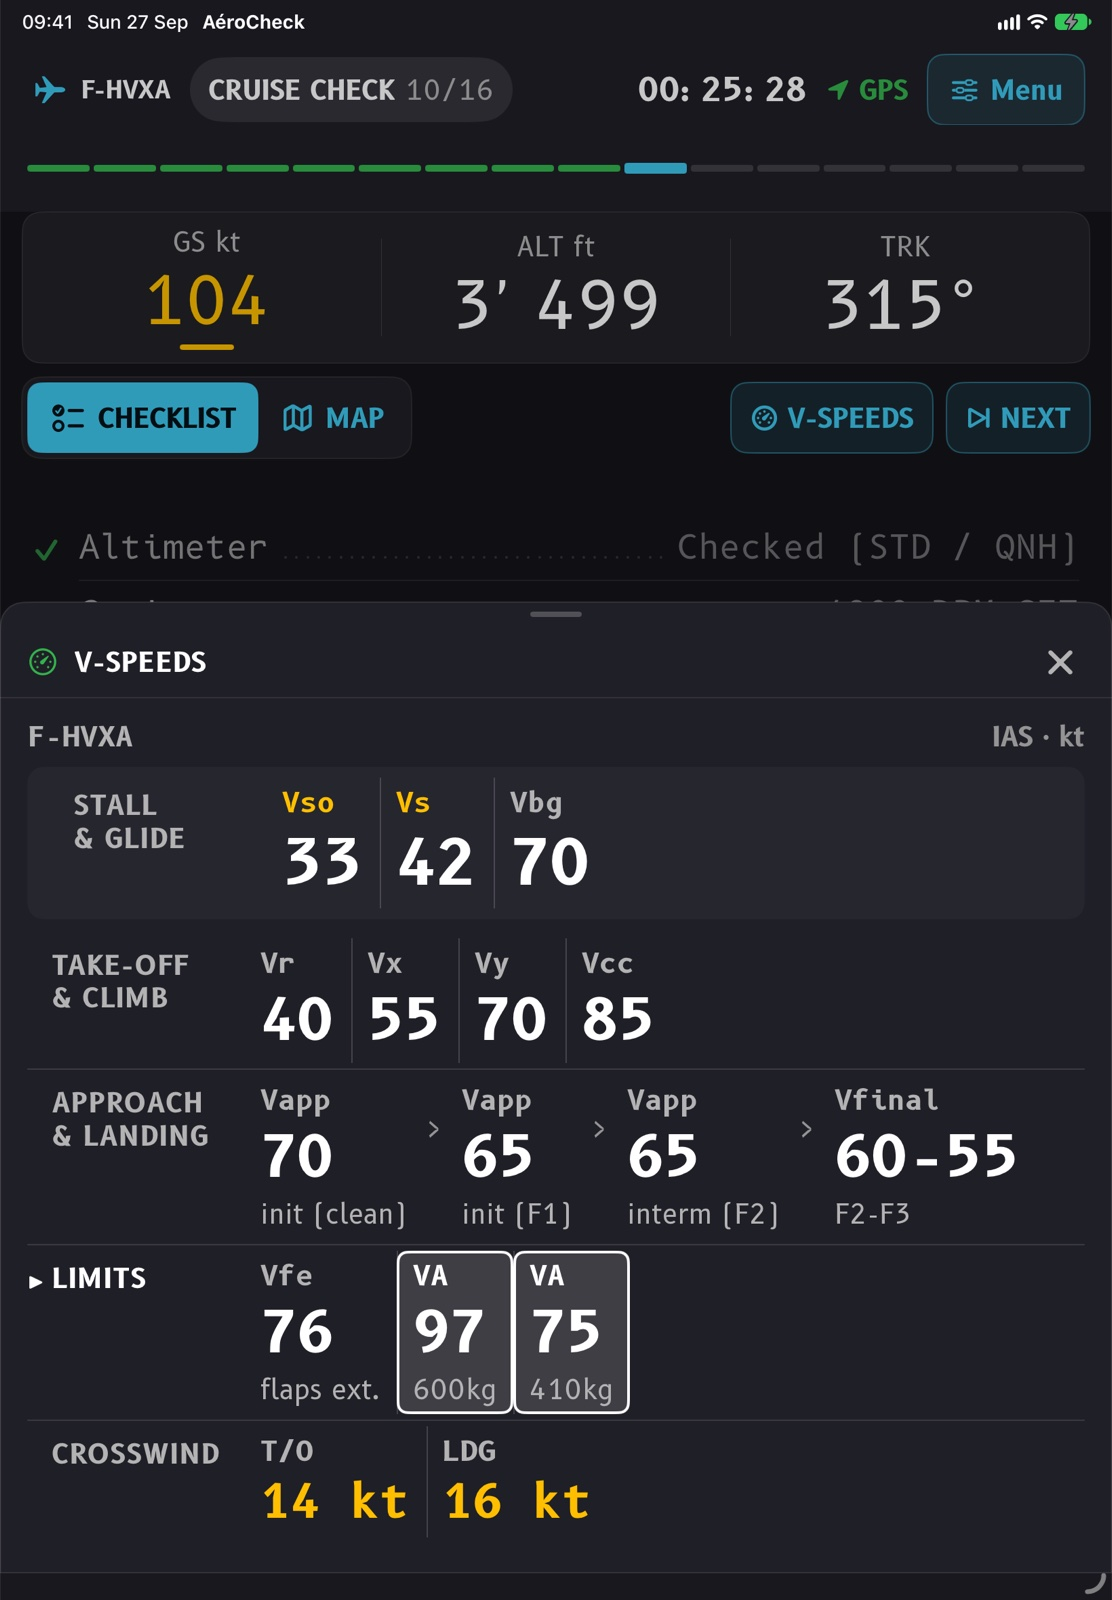
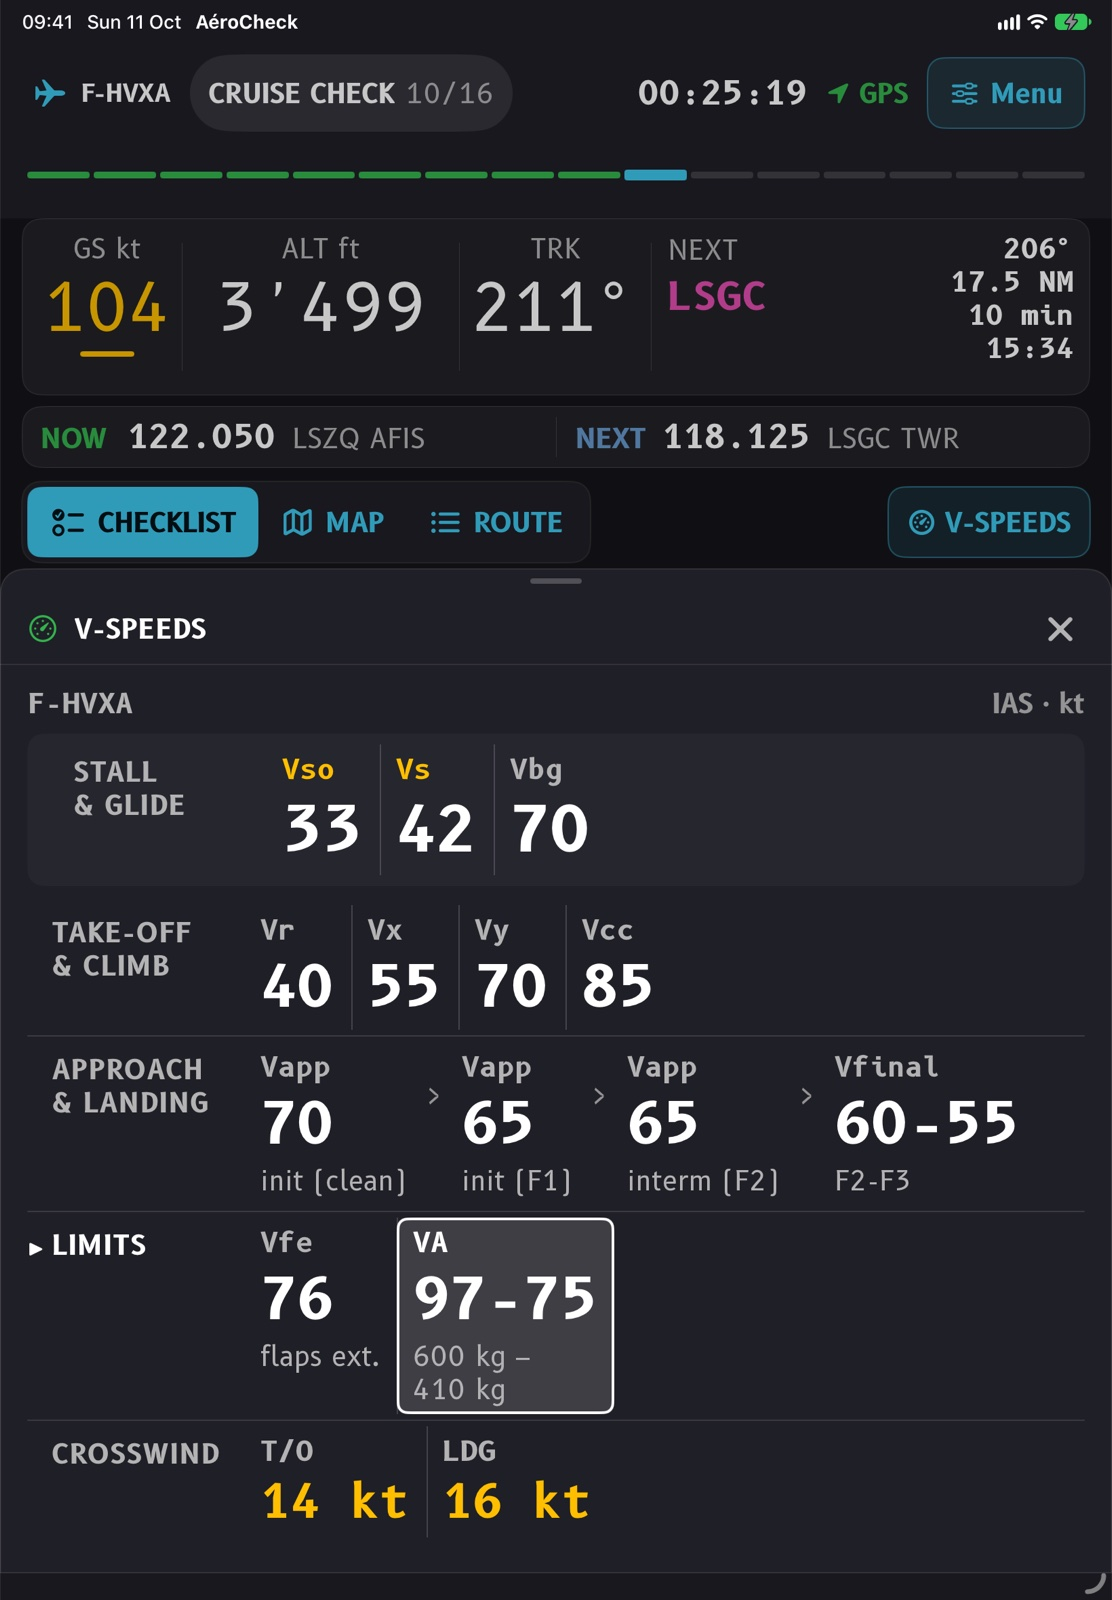
website: the 6.2.0 screenshots, and traffic circuits on the landing
- Every shot recaptured from the 6.2.0 tag (iPad Air 11", iPhone 17): the
  Cockpit's three pages and fixed act band, the iPhone's one-line buttons.
  The 6.0 set showed a thumb bar, a map card and buttons that are gone.
- A fourth FLY row, "Traffic circuits, drawn on the map", with a new
  `circuits` shot (Plan › Map at LSZQ: the circuit at 2900 ft, the W and E
  sectors, runway 07/25), and the same shot in the hero cycle.
- The Cockpit, map and iPhone rows describe the 6.2.0 Cockpit
  (CHECKLIST · MAP · ROUTE, NEXT in the strip, LEGS | RADIO), EN and FR.
- SCREENSHOTS.md: the `circuits` recipe, the `cruiseroute` Cockpit, the
  Flight Restored alert, refreshing the VFR data first.

diff --git a/src/lib/shots.ts b/src/lib/shots.ts
@@ -10,6 +10,8 @@ const both = (key: string, label: string): Shot => ({ ipad: v6('ipad', key), iph
 export const SHOTS: Record<string, Shot> = {
   cockpit:    both('cockpit', 'The Cockpit in cruise'),
   cockpitmap: both('cockpitmap', 'The Cockpit on its map'),
+  // 6.2: Plan › Map close in on LSZQ, its traffic circuit and arrival sectors from open flightmaps.
+  circuits:   both('circuits', 'Traffic circuits on the map'),
   vspeeds:    both('vspeeds', 'V-SPEEDS'),
   today:      both('today', 'Today, with the day’s flight'),
   flight:     both('flight', 'A followed flight'),

diff --git a/SCREENSHOTS.md b/SCREENSHOTS.md
@@ -17,7 +17,7 @@ shot keys; `--as` names a shot that shares a scene with another.
 
 | Shot key | Scene key | What it shows | After the scene |
 |---|---|---|---|
-| `cockpit` | `cruise` | The Cockpit in cruise, Fuel quantity framed (4/5), the strip lit | none |
+| `cockpit` | `cruiseroute` | The Cockpit in cruise with a route (LSGC NEXT), Fuel quantity framed (4/5), the strip lit | none (`--as cockpit`); iPhone: a slow drag on the list so its first row shows whole |
 | `cockpitmap` | `cruisemap` | The Cockpit on its map: LSGC next, the aircraft on the LSZQ → LSGC leg | none |
 | `vspeeds` | `cruise` | V-SPEEDS open over the Cockpit (the table on iPad, the list on iPhone) | tap V-SPEEDS (`--as vspeeds --pause`) |
 | `today` | `homeflight` | Today, with today's flight at 14:00 as the next flight | none |
@@ -27,16 +27,20 @@ shot keys; `--as` names a shot that shares a scene with another.
 | `route` | `conflicts` | The route editor: Geneva → Samedan over the ICAO chart, the profile, the leg table, the conflicts count | tap Today's ROUTE strip, then the route; needs airspace data (below) |
 | `log` | `flightlog` | Vol d'Alpes in the logbook: track, altitude profile | Logbook tab, tap Vol d'Alpes |
 | `landscape` | `cruisemap` | The iPhone on its side: the Cockpit's column, the map at full height | iPhone only: `--orientation landscapeLeft --as landscape` |
+| `circuits` | `nav` | Plan › Map close in on LSZQ: its traffic circuit at 2900 ft, the W and E arrival sectors, runway 07/25 | Plan › Map; Map sheet: National map, Airspace off, Traffic circuits and Arrival & departure routes on; the magnifying glass, "LSZQ"; close the airport callout; iPad: tap "2900 ft" for its callout and pan it clear of the controls (`--as circuits --pause`) |
 
 The rules that are not negotiable:
 
 - **Both devices in PORTRAIT.** The Cockpit is built for an iPad in portrait on a kneeboard, and the
   site shows the iPad with the iPhone in front of it. The one exception is `landscape`, the phone on
   its side.
-- **Use a simulator kept for captures.** Every scene cancels a running flight, clears all flight
+- **Use a simulator kept for captures.** Every scene cancels a running flight (the second launch can then show "Flight Restored": close it before the shot), clears all flight
   threads, turns circuit mode on, and the map scene turns the OpenAIP layers off. Those are the
   right conditions for a picture and the wrong thing to do to a simulator you use.
 - **The scene launch bypasses the safety gate and onboarding.** A fresh container needs no tapping.
+- **The VFR procedures need the server's current files**: a capture simulator's open flightmaps
+  data from before 7 Oct 2026 has no sector letters, so the `circuits` shot shows no W and E badges.
+  Refresh it in Settings › Data & Storage › VFR procedures › Refresh.
 - **The demo flight is dated 1 August** (the *next* 1 August at inject time, so never in the past) and
   prepared to **10 of 12** — a readiness ring must never show a count that reads as a date. Adding a
   task to Plan or Prepare moves the denominator, so check the ring in every captured image.
